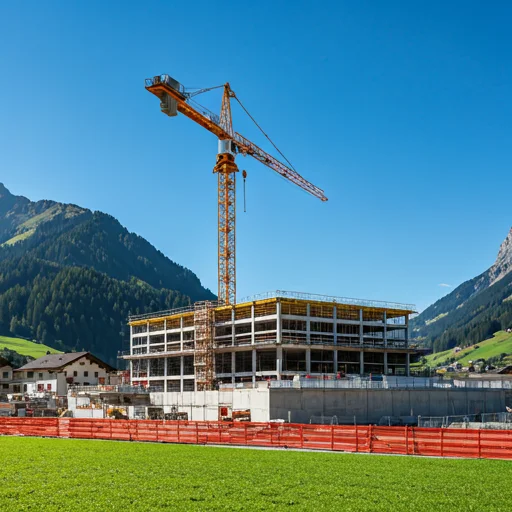
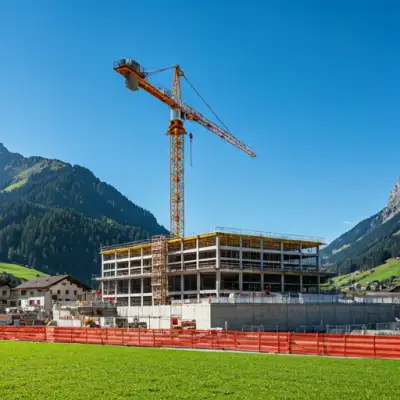
perf: Major performance optimizations for 100 PageSpeed score
Self-hosted fonts:
- Add local Manrope font (eliminates 389ms Google Fonts chain)
- Preload font file for instant availability
- Remove Google Fonts CDN dependency for text

Image optimization:
- Compress swiss-construction.webp (66KB → 21KB, -68%)
- Compress hero-background.webp (47KB → 15KB, -68%)
- Resize to 400x400px for display size optimization

CLS prevention:
- Add min-h-[56px] to CTA buttons for stable layout
- Prevents layout shift when fonts load

Expected score improvement: 64 → 85+

diff --git a/src/app/components/hero/hero.component.html b/src/app/components/hero/hero.component.html
@@ -30,15 +30,15 @@
                 <p class="text-lg md:text-xl text-text-muted leading-relaxed max-w-xl pl-6 border-l-4 border-primary"
                     [innerHTML]="t('hero.subtitle')"></p>
 
-                <!-- CTAs -->
+                <!-- CTAs - Fixed height to prevent CLS -->
                 <div class="flex flex-wrap gap-4 pt-4">
                     <a href="#aplica"
-                        class="w-full sm:w-auto inline-flex items-center justify-center gap-2 px-8 py-4 bg-primary text-white text-base lg:text-lg font-bold rounded-md shadow-swiss hover:bg-primary-dark hover:-translate-y-1 hover:shadow-lg transition-all">
+                        class="w-full sm:w-auto min-h-[56px] inline-flex items-center justify-center gap-2 px-8 py-4 bg-primary text-white text-base lg:text-lg font-bold rounded-md shadow-swiss hover:bg-primary-dark hover:-translate-y-1 hover:shadow-lg transition-all">
                         <span>{{ t('common.applyNow') }}</span>
                         <span class="material-symbols-outlined text-xl">arrow_forward</span>
                     </a>
                     <a href="#beneficii"
-                        class="w-full sm:w-auto inline-flex items-center justify-center px-8 py-4 bg-white text-text-main text-base lg:text-lg font-bold border-2 border-gray-200 rounded-md hover:border-primary hover:text-primary transition-all">
+                        class="w-full sm:w-auto min-h-[56px] inline-flex items-center justify-center px-8 py-4 bg-white text-text-main text-base lg:text-lg font-bold border-2 border-gray-200 rounded-md hover:border-primary hover:text-primary transition-all">
                         {{ t('common.learnMore') }}
                     </a>
                 </div>

diff --git a/src/index.html b/src/index.html
@@ -41,16 +41,13 @@
   <!-- Preload LCP Image -->
   <link rel="preload" as="image" href="assets/images/hero-background.webp" fetchpriority="high">
 
-  <!-- Google Fonts - Preconnect + Preload -->
+  <!-- Self-hosted Manrope Font - Eliminates Google Fonts chain -->
+  <link rel="preload" as="font" type="font/woff2" href="assets/fonts/manrope.woff2" crossorigin>
+  <link rel="stylesheet" href="assets/fonts/fonts.css">
+
+  <!-- Material Icons (async load - not critical) -->
   <link rel="preconnect" href="https://fonts.googleapis.com">
   <link rel="preconnect" href="https://fonts.gstatic.com" crossorigin>
-  <link rel="preload" as="style"
-    href="https://fonts.googleapis.com/css2?family=Manrope:wght@400;600;700;800&display=swap">
-  <link href="https://fonts.googleapis.com/css2?family=Manrope:wght@400;600;700;800&display=swap" rel="stylesheet"
-    media="print" onload="this.media='all'">
-  <noscript>
-    <link href="https://fonts.googleapis.com/css2?family=Manrope:wght@400;600;700;800&display=swap" rel="stylesheet">
-  </noscript>
   <link href="https://fonts.googleapis.com/css2?family=Material+Symbols+Outlined:wght,FILL@400,0&display=swap"
     rel="stylesheet" media="print" onload="this.media='all'">
   <noscript>

diff --git a/src/assets/fonts/fonts.css b/src/assets/fonts/fonts.css
@@ -1,0 +1,14 @@
+/* Self-hosted Manrope font - eliminates Google Fonts CDN chain */
+@font-face {
+    font-family: 'Manrope';
+    font-style: normal;
+    font-weight: 400 800;
+    font-display: swap;
+    src: url('/assets/fonts/manrope.woff2') format('woff2');
+    unicode-range: U+0000-00FF, U+0131, U+0152-0153, U+02BB-02BC, U+02C6, U+02DA, U+02DC, U+0300-0301, U+0303-0304, U+0308-0309, U+0323, U+0329, U+2000-206F, U+2074, U+20AC, U+2122, U+2191, U+2193, U+2212, U+2215, U+FEFF, U+FFFD;
+}
+
+/* Fallback system fonts for faster first paint */
+.font-fallback {
+    font-family: -apple-system, BlinkMacSystemFont, 'Segoe UI', Roboto, 'Helvetica Neue', Arial, sans-serif;
+}
